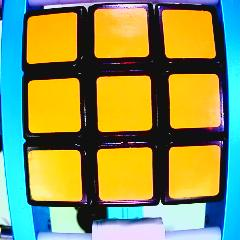
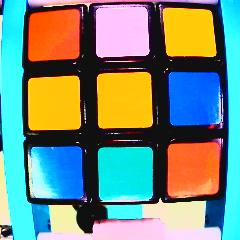
update camera setting

diff --git a/server_offline.js b/server_offline.js
@@ -266,7 +266,7 @@ function captureCube(){
     var sx = 50;
     var sy = 30;
     var dw = 69;
-    var rw = 6;
+    var rw = 10;
     var len = rw*rw;
     for(var i=0;i<3;i++){
         var row = "";
@@ -342,13 +342,13 @@ function checkColor(r,g,b,debug){
     b-=20;
     var c_max = Math.max(r,Math.max(g,b));
     var c_min = Math.min(r,Math.min(g,b));
-    if(r>200&&g>150&&b<60){
+    if(r>200&&g>180&&b<50){
         return ["y","D"];//"yellow";            
     }else if(b-r>50&&b-g>50&&b==c_max){
         return ["b","F"];//"blue";
     }else if(r>170&&g>170&&b>170){
         return ["w","U"];//"white";
-    }else if(r>180&&g>80&&g<190){
+    }else if(r>180&&g>90&&g<200){
         return ["o","R"];//"orange";
     }else if(r>130&&g<90&&b<50){
         return ["r","L"];//"red";
